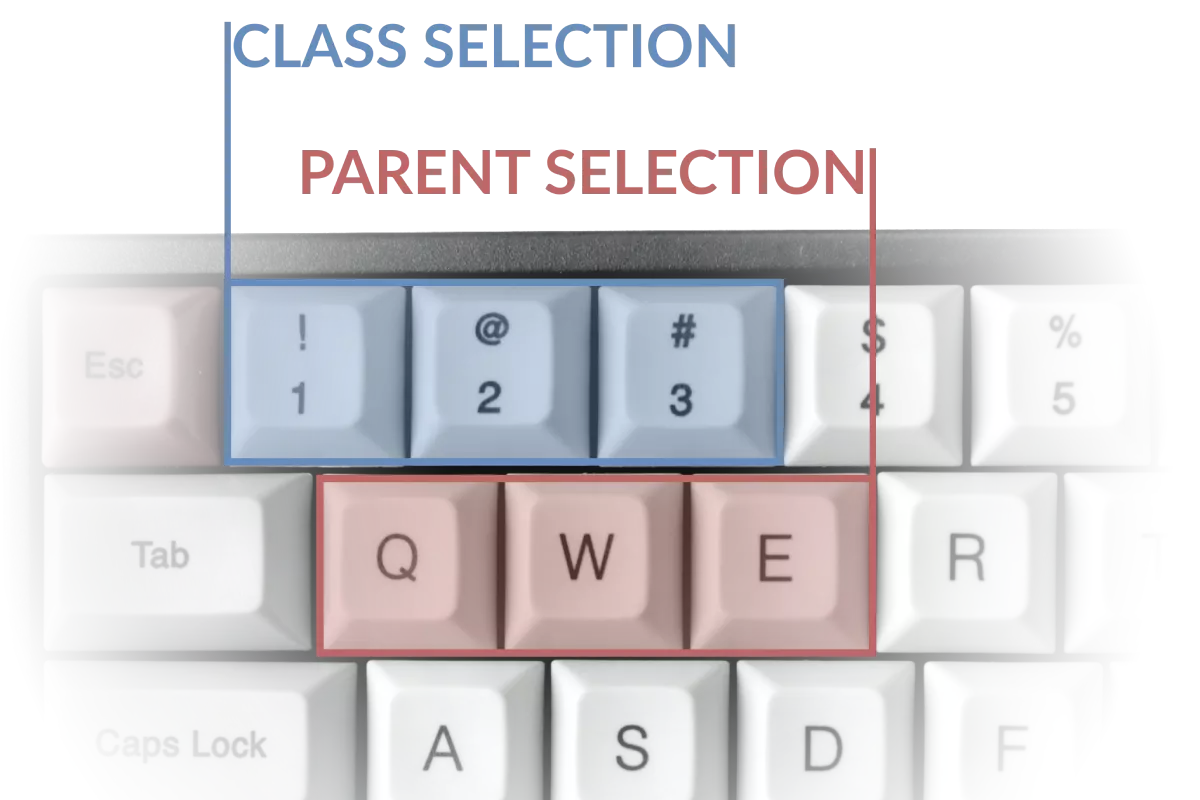
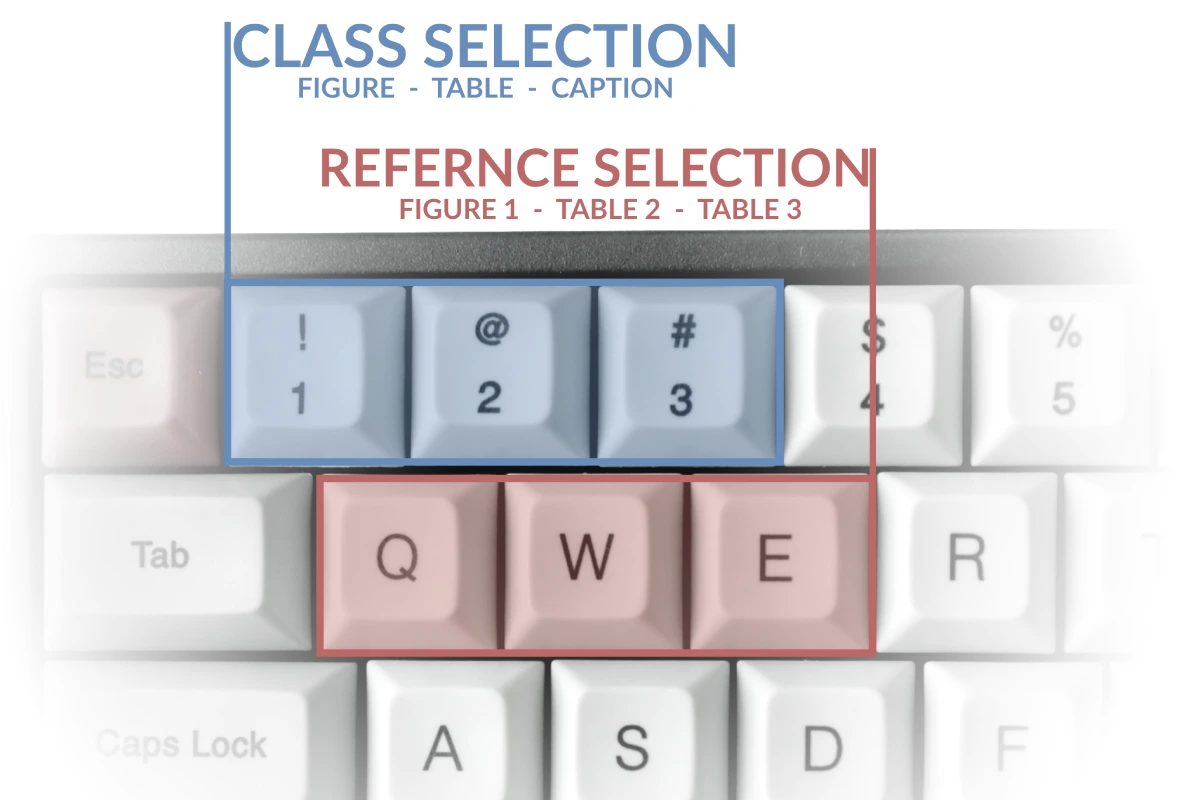
Changed selected button style to make it more obvious, Added better shortcuts image

Changed region(s): [[0.2467, 0.1875, 0.74, 0.2812], [0.2467, 0.0938, 0.4317, 0.125], [0.4625, 0.0938, 0.5858, 0.125]]

diff --git a/src/services/annotationStore.ts b/src/services/annotationStore.ts
@@ -102,7 +102,7 @@ export default class AnnotationStore {
         if (friendlyName) {
             return friendlyName;
         } else {
-            console.log(`Friendly name for id ${id} does not exist!`);
+            //console.log(`Friendly name for id ${id} does not exist!`);
             return undefined;
         }
     }
@@ -197,7 +197,7 @@ export default class AnnotationStore {
     }
 
     public addAnnotation = (anno: Annotation) => {
-        console.log(`Adding annotation ${anno.id}`);
+        //console.log(`Adding annotation ${anno.id}`);
         let annoClass = this.getAnnotationClass(anno);
         // Annotation has one of the parent classes.
         if (this.parentTypes.indexOf(annoClass) != -1) {

diff --git a/src/App.vue b/src/App.vue
@@ -152,15 +152,16 @@ button:disabled img{
   opacity: 50%;
 }
 
-button:hover:enabled:not(.r6o-btn),
-input:hover[type=submit]:enabled:not(.r6o-btn) {
-  background-color: rgb(245, 245, 245);
+button:hover:enabled:not(.r6o-btn):not(.selected),
+input:hover[type=submit]:enabled:not(.r6o-btn):not(.selected) {
+  background-color: #e6f2ff;
 }
 
 button:active:enabled:not(.r6o-btn),
 button.selected:enabled,
 input:active[type=submit]:enabled:not(.r6o-btn) {
-  background-color: rgb(229, 229, 229);
+  background-color: #4483c4;
+  color: white;
 }
 
 button:focus:enabled:not(.r6o-btn),

diff --git a/src/components/Tutorial.vue b/src/components/Tutorial.vue
@@ -101,7 +101,7 @@
 						Select the desired class with your keyboard's number row: <span class="hotkey">1</span>, <span class="hotkey">2</span>, <span class="hotkey">3</span>.
 					</li>
 					<li>
-						Select the parent with <span class="hotkey">Q</span>, <span class="hotkey">W</span>, <span class="hotkey">E</span>.
+						Select the reference with keys <span class="hotkey">Q</span>, <span class="hotkey">W</span>, <span class="hotkey">E</span>.
 					</li>
 					<li>
 						Save selection with the <span class="hotkey">Space</span> key.
